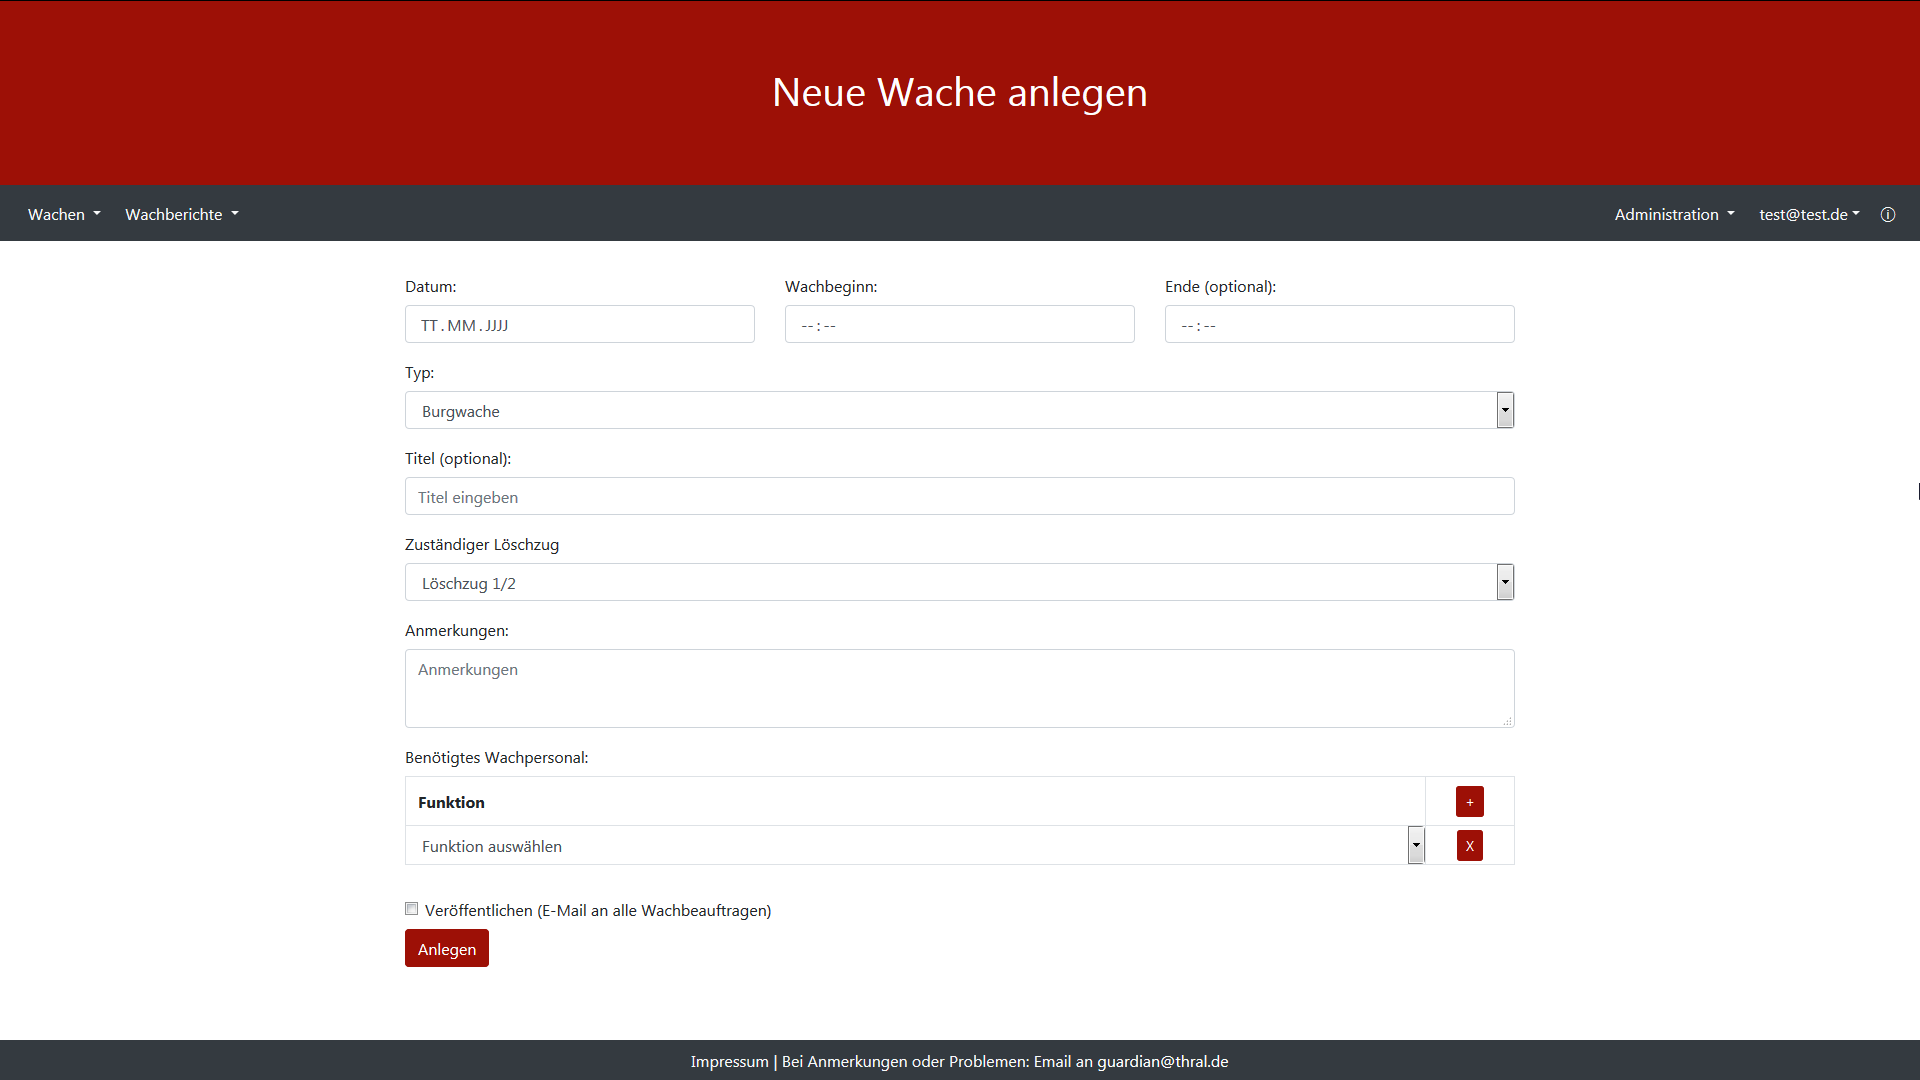
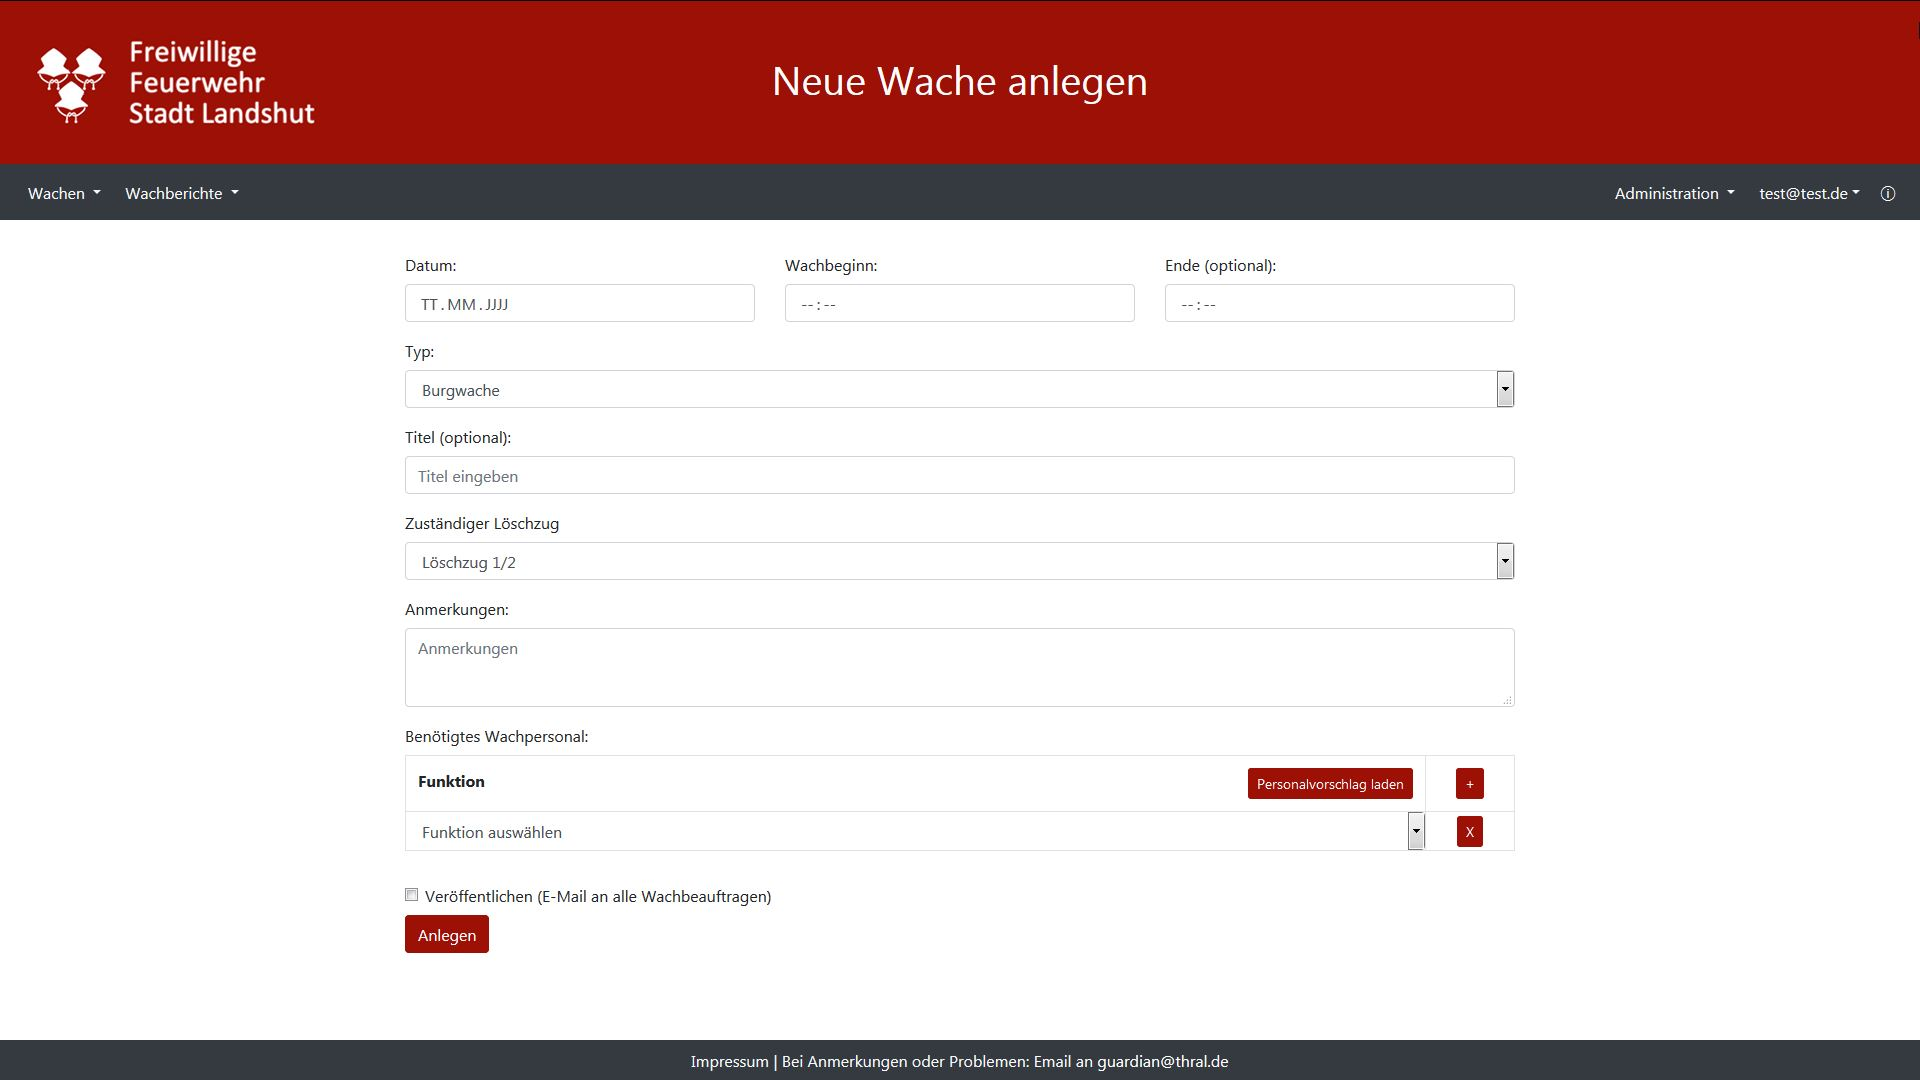
Bugfix and manual update

diff --git a/resources/templates/pages/manual_template.php b/resources/templates/pages/manual_template.php
@@ -109,9 +109,10 @@
 			Kilometer eingeben werden.</p>
 		<p>Fahrzeug bzw. Personal wird an den Bericht angefügt und kann durch
 			„Entfernen“ wieder entfernt werden.</p>
-		<p>Der Bericht wird gespeichert und kann von der Verwaltung (Geschäftszimmer) und vom
-			Wachbeauftragen des zuständigen Zugs eingesehen werden. Letzterer
-			erhält den Bericht auch per E-Mail zugesandt.</p>
+		<p>Der Bericht wird gespeichert und kann von der Verwaltung
+			(Geschäftszimmer) und vom Wachbeauftragen des zuständigen Zugs
+			eingesehen werden. Letzterer erhält den Bericht auch per E-Mail
+			zugesandt.</p>
 
 		<img class="img-fluid rounded mb-2 mx-auto d-block border"
 			src="images/manual/Report_Create.jpg" style="width: 75%;"> <img
@@ -161,10 +162,14 @@
 				eigenen Feld näher definiert werden
 			
 			<li>Mit „Zuständiger Löschzug“ weißt man die Wache dem Löschzug zu,
-				der sie besetzen soll (bei Schülerwachen ist die Verwaltung (Geschäftszimmer) zu
-				verwenden). Standardmäßig wieder hier der eigene Löschzug
-				ausgewählt.
+				der sie besetzen soll (bei Schülerwachen ist die Verwaltung
+				(Geschäftszimmer) zu verwenden). Standardmäßig wieder hier der
+				eigene Löschzug ausgewählt.
+			
 			<li>Die Felder "Ende" und "Titel" sind optional</li>
+			<li>Über den Button "Personalvorschlag laden" kann, sofern vorhanden,
+				ein Vorschlag für die Besetzung geladen werden. Dabei werden alle
+				Einträge überschrieben!"</li>
 		</ul>
 
 		<p>Am Ende des Formulars können die Positionen, die besetzt werden
@@ -232,18 +237,22 @@
 			src="images/manual/Event_Overview.jpg" style="width: 75%;">
 
 	</div>
-	
+
 	<div class="mt-5" id="edit">
 		<h4>
 			Wache bearbeiten <a href="#">&uarr;</a>
 		</h4>
-		<p>In der Detailansicht kann der Ersteller der Wache diese Bearbeiten. Es 
-		können alle Felder und die nötigen Funktionen angepasst werden.</p>
-		
-		<p>Am Ende des Forumlars besteht die Möglichkeit, alle eingetragenen Personen, 
-		sofern vorhanden, über die Änderungen zu informieren. Wurden Funktionen entfernt, 
-		bei denen eine Person eingetragen war, wird diese in jedem Fall benachrichtigt.</p>
-		
+		<p>In der Detailansicht kann der Ersteller der Wache diese Bearbeiten.
+			Es können alle Felder und die nötigen Funktionen angepasst werden.</p>
+
+		<li>Beim Laden des Personalvorschlags werden alle Einträge
+			überschrieben. Eingetragene Personen werden entfernt!"</li>
+
+		<p>Am Ende des Forumlars besteht die Möglichkeit, alle eingetragenen
+			Personen, sofern vorhanden, über die Änderungen zu informieren.
+			Wurden Funktionen entfernt, bei denen eine Person eingetragen war,
+			wird diese in jedem Fall benachrichtigt.</p>
+
 		<img class="img-fluid rounded mb-2 mx-auto d-block border"
 			src="images/manual/Event_Edit.jpg" style="width: 75%;">
 	</div>
@@ -264,8 +273,8 @@
 		<p>Unter „Wachberichte“ – „Berichtsübersicht“ erhält man eine
 			Übersicht über alle Wachberichte, die dem eigenen Zug zugewiesen
 			wurde.</p>
-		<p>Benutzer, die der Verwaltung (Geschäftszimmer) zugewiesen wurde, sehen die
-			Berichte aller Züge.</p>
+		<p>Benutzer, die der Verwaltung (Geschäftszimmer) zugewiesen wurde,
+			sehen die Berichte aller Züge.</p>
 		<p>Die Berichte (in Textform) werden unter „Bericht“ angezeigt und
 			können mit „Löschen“ gelöscht werden. Versehentliches Löschen wird
 			durch ein Bestätigungsfenster verhindert.</p>

diff --git a/resources/templates/pages/eventEdit_template.php b/resources/templates/pages/eventEdit_template.php
@@ -115,7 +115,7 @@
 					<tr>
 						<th>Funktion	
 							<span>
-								<button type="button" id="loadTemplate" class='btn btn-primary btn-sm float-right' onClick='getStaffTemplate()'>Lade Personal-Vorschlag</button>
+								<button type="button" id="loadTemplate" class='btn btn-primary btn-sm float-right' onClick='getStaffTemplate()'>Personalvorschlag laden</button>
 							</span>
 						</th>
 						<?php
@@ -391,7 +391,7 @@
 	}
 
 	function showHideTypeOtherCreate(){
-		document.getElementById("loadTemplate").innerHTML = "Personal-Vorschlag laden";
+		document.getElementById("loadTemplate").innerHTML = "Personalvorschlag laden";
 		
 		var type = document.getElementById("type");
 		var selectedType = type.options[type.selectedIndex].text;

diff --git a/html/ajax/staff_template.php b/html/ajax/staff_template.php
@@ -19,8 +19,7 @@ if (isset($_GET['uuid'])) {
 		//header('Content-Type: application/json');
 		
 	} else {
-		echo "test";
-		//http_response_code(404);
+		http_response_code(404);
 	}
 } else {
 	http_response_code(400);
